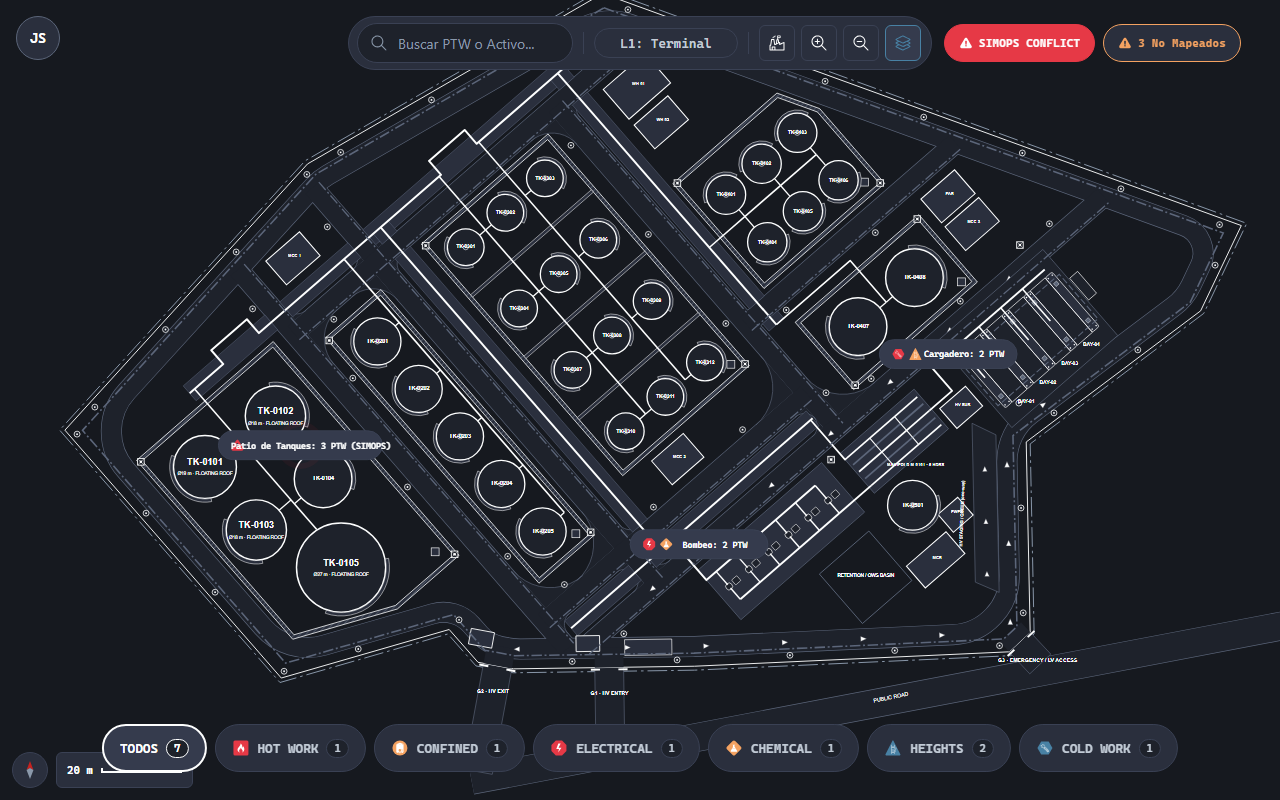
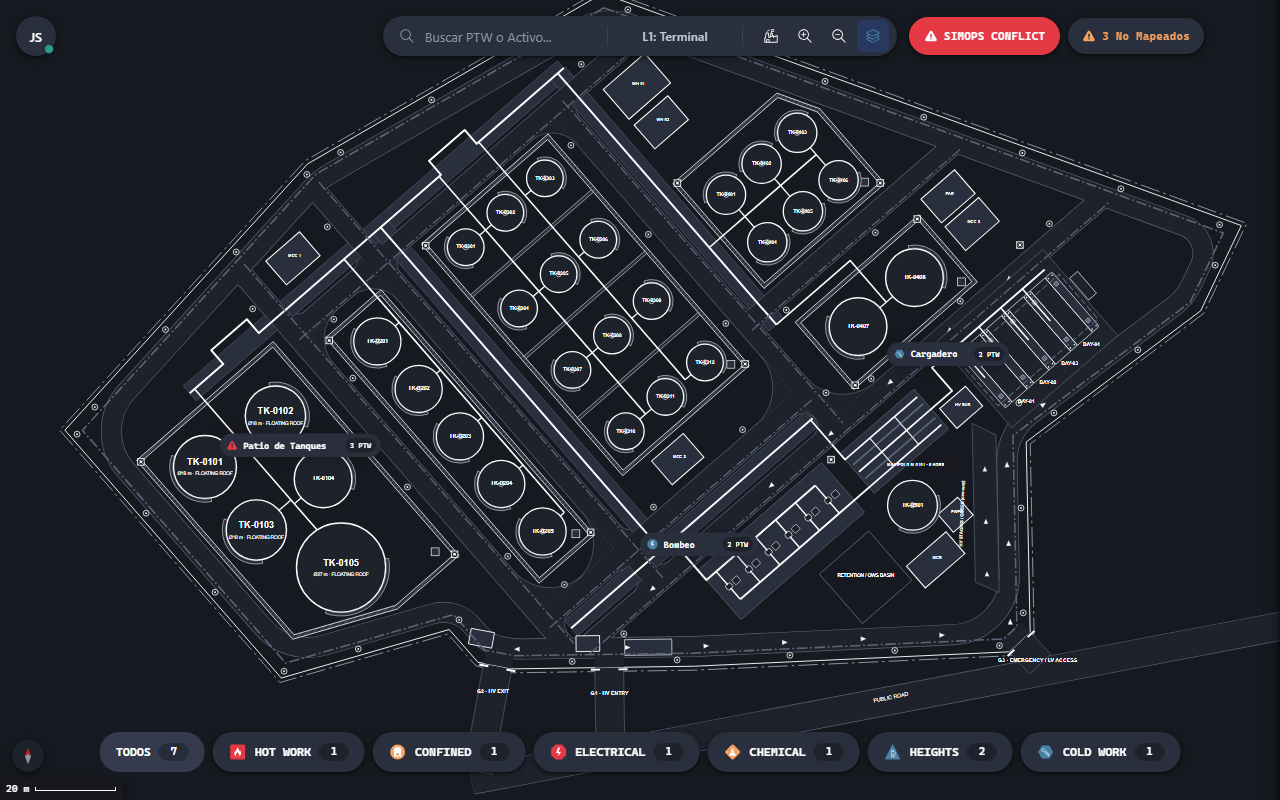
docs(ui-ux): promote SCR-VIS-008 to Stable and synchronize elevation tokens

diff --git a/ui-ux/screens/vis/SCR-VIS-008.md b/ui-ux/screens/vis/SCR-VIS-008.md
@@ -12,8 +12,8 @@ user_stories:
   - "[[VIS-008]]"
 use_cases:
   - "[[UC-VIS-008]]"
-version: 1.5
-date: 2026-10-19
+version: 2.1
+date: 2026-11-09
 status: Stable
 ---
 
@@ -45,14 +45,14 @@ status: Stable
 | ID | Control / Component | Visual Role / Content | Semantic Token | Architectural Role & Reference |
 | :------- | :---------------------- | :------------------------------- | :-------------------------------------------------------------------------------------------------- | :----------------------------------------------------------------------------------------------------------------------------------------------------------------------- |
 | `CMP-01` | L1 Plot Plan Canvas | Macro plant SVG vector canvas | Surface: `--dt-color-bg-canvas`<br>Elevation: `--dt-z-canvas` | Renders macro polygons representing Functional Locations (ISO 14224 Levels 1 to 4) and Level 6 equipment nodes. Implements semantic zoom clustering. Detailed panning and zoom rules in §5.4. |
-| `CMP-02` | Viewport Toolbar | Spatial navigation toolbar | Surface: `--dt-color-surface-raised`<br>Border: `--dt-color-border-subtle`<br>Radius: `--dt-radius-full` | Floating navigation toolbar centered over viewable canvas. Hosts level badge (`L1: PLOT PLAN`), reset view (1:1), zoom (+ / −), layer selector (`[≡ Layers]`), and non-modal alert badges for SIMOPS conflicts and unmapped permits. Adaptive condensation in §5.2. Shared with [SCR-VIS-033](./SCR-VIS-033.md). |
-| `CMP-03` | User Profile Indicator | Active user session control | Surface: `--dt-color-surface-raised`<br>Border: `--dt-color-border-panel`<br>Radius: `--dt-radius-full` | Circular floating button anchored at top-left margin per layout grid. Displays user initials. Enforces `--dt-touch-target-mobile`. Aligned with `CMP-11` in [SCR-VIS-033](./SCR-VIS-033.md). |
+| `CMP-02` | Viewport Toolbar | Spatial navigation toolbar | Surface: `--dt-color-surface-card`<br>Shadow: `--dt-shadow-hud`<br>Radius: `--dt-radius-full` | Floating navigation toolbar centered over viewable canvas. Elevated via `--dt-shadow-hud` (borderless). Hosts level badge (`L2: Subsistema`), reset view (1:1), zoom (+ / −), layer selector (`[≡ Layers]`), and non-modal alert badges for SIMOPS conflicts (`[⚠ SIMOPS CONFLICT]`) and unmapped permits (`[⚠ 3 No Mapeados]`). Adaptive condensation in §5.2. Shared with [SCR-VIS-033](./SCR-VIS-033.md). |
+| `CMP-03` | User Profile Indicator | Active user session control | Surface: `--dt-color-surface-card`<br>Shadow: `--dt-shadow-hud`<br>Radius: `--dt-radius-full` | Circular floating button anchored at top-left margin per layout grid. Elevated via `--dt-shadow-hud` (borderless). Displays user initials. Enforces `--dt-touch-target-mobile`. Aligned with `CMP-11` in [SCR-VIS-033](./SCR-VIS-033.md). |
 | `CMP-04` | Functional Zone Polygon | Plant zone boundaries in SVG | Border: `--dt-color-border-subtle`<br>Fill: transparent / neutral | Vector boundary representing a Functional Location. Rendered in neutral grayscale to maintain the 90/10 background rule. Hosts `CMP-09` cluster pills at centroids at macro zoom. |
-| `CMP-05` | PTW Overlay Badges | Active permit safety markers | Surface: Dynamic (`--dt-color-alarm-critical` \| `--dt-color-alarm-warning` \| `--dt-color-state-info`)<br>Elevation: `--dt-z-layer-ptw` | Vector safety hotspots dynamically positioned over affected equipment units at area zoom. Applies mandatory 4-channel redundant coding (color, shape, icon, text) and spatial hazard buffers. Specification in §5.1. |
-| `CMP-06` | Context Popover Card | Permit detail contextual card | Surface: `--dt-color-surface-raised`<br>Border: `--dt-color-border-subtle`<br>Elevation: `--dt-z-overlay-card` | Transient card deployed upon tapping a `CMP-05` badge. Displays permit metadata, schedule, contractor, associated LOTO reference, and `[View Details]` drill-down action. Viewport collision rules in §5.4. |
-| `CMP-07` | SIMOPS Integrity Panel | Visualization Failures drawer | Surface: `--dt-color-surface-drawer`<br>Border: `--dt-color-border-panel`<br>Elevation: `--dt-z-drawer-sidebar` | Collapsible drawer (lateral panel in landscape, bottom sheet in portrait) displaying approved permits lacking spatial mapping. Hosts unmapped list and `[Resolve Inconsistency]` button. Governance rules in §5.2. |
-| `CMP-08` | Filter Chips Panel | Risk category filter panel | Surface: `--dt-color-surface-raised`<br>Border: `--dt-color-border-subtle`<br>Radius: `--dt-radius-full` | Floating bar at screen bottom hosting direct-touch filter chips for active permit types. Supports touch swipe and desktop shift-wheel scrolling. Interaction rules in §5.4. |
-| `CMP-09` | Zone Cluster Pill | Macro SIMOPS density aggregation | Surface: `--dt-color-surface-raised`<br>Border: `--dt-color-border-subtle`<br>Radius: `--dt-radius-full` | Rendered at Functional Location centroids at macro zoom. Consolidates tactical permits into high-salience overview pills (e.g., `Zone A: 5 PTWs [🔥1 \| 🧗2 \| 🛢2]`). Tapping zooms into the zone. Semantic zoom rules in §5.4. |
+| `CMP-05` | PTW Overlay Badges | Active permit safety markers | Surface: `--dt-color-surface-card`<br>Shadow: `--dt-shadow-hud`<br>Radius: `--dt-radius-full`<br>Elevation: `--dt-z-layer-ptw` | Floating capsule pills dynamically positioned over affected equipment units at area zoom. Applies mandatory 4-channel redundant coding (color, shape, icon, text) with semantic hazard dot and dynamic spatial hazard buffers. Specification in §5.1. |
+| `CMP-06` | Context Popover Card | Permit detail contextual card | Surface: `--dt-color-surface-raised`<br>Border: `--dt-color-border-subtle`<br>Shadow: `--dt-shadow-panel`<br>Elevation: `--dt-z-overlay-card` | Transient card deployed upon tapping a `CMP-05` badge. Displays permit metadata, schedule, contractor, associated LOTO reference, and `[Ver Detalle de Permiso]` secondary button action aligned with `INV-005` standard. Viewport collision rules in §5.4. |
+| `CMP-07` | SIMOPS Integrity Panel | Visualization Failures drawer | Surface: `--dt-color-surface-drawer`<br>Border: `--dt-color-border-panel`<br>Shadow: `--dt-shadow-panel`<br>Elevation: `--dt-z-drawer-sidebar` | Collapsible drawer (lateral panel in landscape, bottom sheet in portrait) displaying approved permits lacking spatial mapping. Rendered as a flat list separated by hairline dividers with dedicated top-right resolution icon button (`#icon-location`), decoupling the issue description into its own line. Dismissed explicitly via close button or by tapping on the empty canvas. Governance rules in §5.2. |
+| `CMP-08` | Filter Chips Panel | Risk category filter panel | Surface: `--dt-color-surface-card`<br>Shadow: `--dt-shadow-hud`<br>Radius: `--dt-radius-full` | Floating bar at screen bottom hosting discrete touch filter pills for active permit types without borders, displaying hazard-tinted fills upon selection, and count capsules with subtle elevation. Supports touch swipe and desktop shift-wheel scrolling. Interaction rules in §5.4. |
+| `CMP-09` | Zone Cluster Pill | Macro SIMOPS density aggregation | Surface: `--dt-color-surface-card`<br>Shadow: `--dt-shadow-hud`<br>Radius: `--dt-radius-full` | Rendered at Functional Location centroids at macro zoom ($Z < \text{--dt-zoom-scale-l1-max}$). Consolidates tactical permits into high-salience overview pills (e.g., `Zone A: 5 PTWs [🔥1 \| 🧗2 \| 🛢2]`). Mutually exclusive with discrete `CMP-05` badges. Tapping zooms into the zone. Semantic zoom rules in §5.4. |
 
 ---
 
@@ -90,7 +90,8 @@ status: Stable
    * **Collision Trigger:** When $D_{AB} < R_A + R_B$, a SIMOPS conflict is automatically triggered:
       * Overlapping intersection zone renders a high-contrast pulsing diagonal hatch pattern.
       * Both affected `CMP-05` badges display an animated pulsing conflict halo in `--dt-color-alarm-critical`.
-      * `CMP-02` Toolbar activates a dedicated conflict pill: `[⚠ SIMOPS CONFLICT: PTW-XXXX / PTW-YYYY]`. Tapping the pill centers the viewport over the conflict site and opens the conflict detail card.
+      * `CMP-02` Toolbar activates a dedicated conflict pill: `[⚠ SIMOPS CONFLICT]`. Tapping the pill centers the viewport over the conflict site and opens the conflict detail card.
+      * An operational SIMOPS alert banner slides down non-modally at the top viewport edge: *"ALERTA SIMOPS: Incompatibilidad de coactividad entre Trabajo en Caliente (PTW-1042) y Espacio Confinado (PTW-1043) en Patio de Tanques."*
 5. **Mandatory 4-Channel Redundant Coding Matrix (FR-183, TR-011, WCAG 2.1 AA):**
    * To prevent single-channel color dependency and ensure pre-attentive salience, every `CMP-05` badge encodes its permit classification across four sensory channels (Color + Geometric Shape + Vector Icon + Alphanumeric Label) per [DT-UI-DS-DOC-001 §6.2](../../DT-UI-DS-DOC-001.md#62-redundant-coding-matrix-for-permits-and-loto) and [DT-DM-DOC-001 §4.34](../../../domain-models/class/DT-DM-DOC-001.md#434-workpermitpermittype):
      * **HOT_WORK:** `--dt-color-alarm-critical` | Square ($20\times 20\text{px}$) | `#icon-hot-work` | `HOT WORK`
@@ -100,25 +101,28 @@ status: Stable
      * **CHEMICAL:** `--dt-color-alarm-warning` | Rhombus ($20\times 20\text{px}$) | `#icon-chemical` | `CHEMICAL`
      * **COLD_WORK:** `--dt-color-state-info` | Hexagon ($20\times 20\text{px}$) | `#icon-cold-work` | `COLD WORK`
    * Spatial hazard buffers, collision halos, and hatch patterns render with click-through transparency to guarantee continuous pan drag gestures across permit zones.
-   * Each badge includes an invisible $48\times 48\text{px}$ tactile touch target (`--dt-touch-target-mobile`) for gloved operation and an expiring warning cue ($< 60\text{ min}$).
+   * Badges render as floating capsule pills (`rx="11"`, height $22\text{px}$) with `--dt-color-surface-card` fill, drop shadow (`filter: drop-shadow(...)`), semantic hazard dot ($r=3.5\text{px}$), mono permit tag, and an invisible $48\times 48\text{px}$ tactile touch target (`--dt-touch-target-mobile`) for gloved operation.
 
 ### 5.2. Integrity Panel Governance & Non-Modal Escalation (Orphan Detection — `AF-001`)
 1. If an approved `WorkPermit` references an `EquipmentUnitId` that has no geometric representation or spatial metadata in the loaded layout, the permit is classified as **Orphan**.
 2. **Safety Rule:** The permit is **never** drawn at an arbitrary coordinate on the map to prevent misleading spatial situational awareness.
 3. **Strict Non-Modal Escalation (ISO 9241-110 §5.5 Controllability & ISO 11064-5):**
    * Detecting unmapped permits shall **never** automatically deploy or expand `CMP-07`, preventing viewport hijacking.
-   * The alert counter on `CMP-02` Toolbar transitions to `--dt-color-alarm-critical` with the unread orphan count badge (e.g., `[⚠ 3]`).
+   * The alert counter on `CMP-02` Toolbar displays a borderless warning pill `[⚠ 3 No Mapeados]` with subtle warning fill and `--dt-shadow-hud` elevation.
    * A single-line non-modal toast banner (height `--dt-layout-toast-max-height`, elevation `--dt-z-toast-alert`) slides down at the top viewport edge:
      `"SIMOPS Alert: 3 Permits lack spatial mapping. [View List] [Dismiss]"`
 4. **Explicit Operator Deployment & Tablet Physical Constraints:**
    * Tapping `[View List]` or the toolbar badge expands `CMP-07`.
    * **Tablet Landscape:** `CMP-07` docks as a lateral panel preserving canvas visibility; layout sizing is detailed in Section 8.
-   * **Tablet Portrait:** `CMP-07` renders as a **Bottom Sheet** docked at the viewport bottom; height bounds are detailed in Section 8.
+   * **Tablet Portrait:** `CMP-07` renders as a **Bottom Sheet** docked at the viewport bottom with its capsule drag handle nested directly inside `.drawer-header` to guarantee background tone parity; height bounds are detailed in Section 8.
+   * **Canvas Light-Dismiss:** Tapping or clicking any empty region of the vector canvas (`CMP-01`) immediately dismisses `CMP-07`, enabling effortless one-touch closure without requiring explicit interaction with the close ('X') button.
    * Container toggling operates via **discrete single taps** on dedicated $48 \times 48\text{ px}$ handles (`--dt-touch-target-mobile` per [DT-UI-DS-DOC-001 §6.3](../../DT-UI-DS-DOC-001.md#63-sliding-containers-pattern-bottom-sheets-and-drawers)). Continuous drag gestures are optional and never mandatory.
-5. Each orphan record presents: `Permit Identifier`, `Contractor`, `Expected TagNumber`, and the `[Resolve Inconsistency]` button (`--dt-control-height-lg`, `FR-186`), enabling the inspector to assign geometry or request spatial metadata updates.
+5. **Flat List Ergonomics for Visualization Failures:**
+   * To prevent visual crowding and eliminate nested card borders ("Russian doll" effect) within the $340\text{px}$ panel, orphan items are rendered directly on the drawer background surface as flat rows separated by hairline dividers (`--dt-color-border-subtle`).
+   * Each orphan record presents: `Permit Identifier` with a compact `VIS-033` capsule type badge (`.ptw-type-pill`), expiration timestamp, `Expected TagNumber`, Contractor, a decoupled warning issue description on its own line (`.orphan-issue-line`), and a compact top-right icon button (`#icon-location`, `FR-186`) to trigger spatial reassignment.
 6. **Adaptive Toolbar Badge Condensation (`CMP-02`):**
    * In tablet landscape with `CMP-07` deployed, toolbar `CMP-02` condenses the unmapped orphan badge to an icon-only `[⚠ 3]` format to prevent toolbar crowding.
-   * On desktop workstations, in tablet portrait, and whenever `CMP-07` is closed, the badge displays its full alphanumeric label `[⚠ 3 Unmapped]`. Responsive breakpoint mapping is detailed in Section 8.
+   * On desktop workstations, in tablet portrait, and whenever `CMP-07` is closed, the badge displays its full alphanumeric label `[⚠ 3 No Mapeados]`. Responsive breakpoint mapping is detailed in Section 8.
 
 ### 5.3. Real-Time Synchronization (`TR-010`)
 1. The client subscribes to the SignalR hub for work permit domain events:
@@ -129,8 +133,8 @@ status: Stable
 
 ### 5.4. Dual Navigation, Tactile Controllability, and Semantic Zoom Clustering
 1. **Semantic Zoom Clustering (ANSI/ISA-101.01 §6.3.1 / Hollifield Ch. 8):** The viewport supports continuous pan/zoom governed by the canonical Design System tokens ([DT-UI-DS-DOC-001 §2.5](../../DT-UI-DS-DOC-001.md#25-spatial-navigation-and-semantic-zoom-tokens-ansiisa-10101-viewports)):
-   * **Scale $Z < \text{--dt-zoom-scale-l1-max}$ (Level 1 Plant Overview / COP):** Discrete equipment badges are **suppressed**. Functional Locations render consolidated **Zone Cluster Pills** (`CMP-09`) at centroids (e.g., `Zone A: 5 PTWs [🔥1 \| 🧗2 \| 🛢2]`), preserving the 90/10 grayscale rule and preventing visual clutter (`NFR-190`).
-   * **Scale $\text{--dt-zoom-scale-l1-max} \le Z < \text{--dt-zoom-scale-l2-max}$ (Level 2 Process Area Layout):** Cluster pills expand into individual **Discrete Equipment Badges** (`CMP-05`) positioned over ISO 14224 Level 6 Equipment Units with dynamic spatial hazard buffers.
+   * **Scale $Z < \text{--dt-zoom-scale-l1-max}$ (Level 1 Plant Overview / COP):** Discrete equipment badges are **completely suppressed**. Functional Locations render consolidated **Zone Cluster Pills** (`CMP-09`) at centroids (e.g., `Zone A: 5 PTWs [🔥1 \| 🧗2 \| 🛢2]`), preserving the 90/10 grayscale rule and preventing visual clutter (`NFR-190`).
+   * **Scale $\text{--dt-zoom-scale-l1-max} \le Z < \text{--dt-zoom-scale-l2-max}$ (Level 2 Process Area Layout):** Cluster pills are suppressed and expand into individual **Discrete Equipment Badges** (`CMP-05`) positioned over ISO 14224 Level 6 Equipment Units with dynamic spatial hazard buffers.
    * **Scale $Z \ge \text{--dt-zoom-scale-l2-max}$ (Level 3 Equipment Detail Faceplate):** Micro tactical detail disclosing nozzles, valves, local instrument numbers, and active LOTO lock numbers.
 2. **Dual-Mode Canvas Pan Ergonomics:**
    * **Desktop Workstations:** Continuous canvas panning strictly requires **middle-click (mouse wheel drag)** with pointer capture. Primary left-click is exclusively reserved for selecting equipment, toggling toolbar controls, and inspecting safety badges.
@@ -138,14 +142,17 @@ status: Stable
 3. **Transient Popover Card Dismissal and Viewport Clamping (`CMP-06`):**
    * **Adaptive Viewport Clamping & Collision Flipping:** Dynamically calculates bounding box and flips leftward when colliding with the right viewport margin ($X + W > \text{Viewport}_W - \text{--dt-space-4}$); clamps vertically within safe boundaries ($[\text{--dt-layout-popover-top-clearance}, \text{Viewport}_H - H - \text{--dt-space-4}]$) respecting top toolbar clearance.
    * **Transient Light-Dismiss:** Moving the canvas via pan drag or adjusting zoom immediately dismisses `CMP-06` to maintain unobstructed visual scanning. Ending a pan gesture immediately unblocks input handling so subsequent stationary clicks or taps on equipment badges deploy `CMP-06` without gesture-lock.
+   * **Secondary Action Button Styling:** Features a secondary drill-down button aligned with the `INV-005` standard (`var(--dt-font-family-base)`, $13\text{px}$, font-weight 500, `border: none` in light mode, subtle hairline in dark mode, without trailing chevron) labeled `"Ver Detalle de Permiso"` to initiate Level 3 inspection.
 4. **Horizontal Filter Chips Ergonomics (`CMP-08`):**
+   * Floating bar at screen bottom hosting discrete floating pills with `--dt-shadow-hud` elevation and borderless styling (`border: none`).
+   * Applies hazard-specific tinted fills upon selection (`HOT_WORK`, `CONFINED_SPACE`, etc.) and `--dt-color-surface-raised` for `TODOS`, with widened count capsules.
    * Supports direct touch swipe on field tablets.
    * Supports horizontal scrolling on desktop via mouse wheel combined with the `Shift` key (`Shift + Wheel`).
 5. **Tactile Ergonomics:** On touch devices (`Industrial Tablet`), all interactive triggers (`CMP-02`, `CMP-03`, `CMP-07`, `CMP-08`, `CMP-09`) maintain a minimum contact area of $48 \times 48\text{ px}$ (`--dt-touch-target-mobile`).
 6. **Hover vs. Tap Bifurcation:** Desktop pointers display a compact hover tooltip (`FR-189`). Touch devices deploy the persistent `CMP-06` card upon direct tap (`FR-184`), dismissible via tap-away, pan/zoom motion, or close ('X') button.
 
 ### 5.5. Hierarchical Escalation (L1 $\to$ L3 Transition)
-1. Clicking on `'View Details'` within `CMP-06` initiates an operational drill-down, transitioning the inspector directly into the Level 3 Equipment Task Faceplate ([SCR-VIS-033](./SCR-VIS-033.md)) for the target equipment unit.
+1. Clicking on `'Ver Detalle de Permiso'` within `CMP-06` initiates an operational drill-down, transitioning the inspector directly into the Level 3 Equipment Task Faceplate ([SCR-VIS-033](./SCR-VIS-033.md)) for the target equipment unit.
 2. Direct selection of an Equipment Unit on the canvas (outside a PTW badge) seamlessly deploys the [SCR-VIS-033](./SCR-VIS-033.md) contextual drawer without changing screens.
 
 ---
@@ -403,9 +410,9 @@ public record PlantZoneDto
 
 | Viewport / Breakpoint | Layout Organization | Ergonomic Rules |
 | :--- | :--- | :--- |
-| **Desktop Workstation**<br>($\ge 1920\text{px}$, `--dt-breakpoint-xl`) | Canvas `CMP-01` occupies full viewport. Floating pill toolbar `CMP-02` displays level badge and full alphanumeric orphan badge (`[⚠ 3 Unmapped]`). Filter chips panel `CMP-08` displays uncompressed risk chips (`HOT_WORK`, `CONFINED_SPACE`, etc.) along the bottom viewport edge. Non-modal integrity drawer `CMP-07` docks as lateral right panel (sized by `--dt-layout-drawer-width-desktop`). | Mouse wheel focal zoom; middle-click canvas pan; cursor tooltips enabled on hover; popover cards `CMP-06` clamp within viewport bounds. |
-| **Industrial Tablet Landscape**<br>($1280\text{px} - 1919\text{px}$, `--dt-breakpoint-lg` / $1280\times 800\text{px}$) | Canvas `CMP-01` full screen. Toolbar `CMP-02` applies adaptive badge condensation when `CMP-07` is deployed (`[⚠ 3]`). Filter chips panel `CMP-08` enables horizontal touch swipe. Integrity drawer `CMP-07` slides over right flank (sized by `--dt-layout-drawer-width-tablet`, strictly preserving $\ge 75\%$ canvas visibility). | Touch pan threshold ($4\text{px}$); touch targets comply with $\ge 48\times 48\text{px}$ (`--dt-touch-target-mobile`); hover tooltips disabled, direct tap opens popover card. |
-| **Industrial Tablet Portrait**<br>($768\text{px} - 1279\text{px}$, `--dt-breakpoint-md` / $800\times 1280\text{px}$) | Canvas `CMP-01` full screen. Toolbar `CMP-02` wraps to compact icon-only controls. Integrity drawer `CMP-07` operates as a bottom sheet with tactile drag handle (natural initial height: `--dt-layout-bottom-sheet-height-initial`). | Single-finger drag pan; pinch-to-zoom; bottom-sheet snap mechanics; floating HUD elements dock to lower corners. |
+| **Desktop Workstation**<br>($\ge 1920\text{px}$, `--dt-breakpoint-xl`) | Canvas `CMP-01` occupies full viewport. Floating pill toolbar `CMP-02` displays level badge (`L2: Subsistema`) and full alphanumeric orphan badge (`[⚠ 3 No Mapeados]`). Filter chips panel `CMP-08` displays uncompressed risk chips (`HOT_WORK`, `CONFINED_SPACE`, etc.) along the bottom viewport edge. Non-modal integrity drawer `CMP-07` docks as lateral right panel (sized by `--dt-layout-drawer-width-desktop`). | Mouse wheel focal zoom; middle-click canvas pan; cursor tooltips enabled on hover; popover cards `CMP-06` clamp within viewport bounds; tapping empty canvas dismisses `CMP-07`. |
+| **Industrial Tablet Landscape**<br>($1280\text{px} - 1919\text{px}$, `--dt-breakpoint-lg` / $1280\times 800\text{px}$) | Canvas `CMP-01` full screen. Toolbar `CMP-02` applies adaptive badge condensation when `CMP-07` is deployed (`[⚠ 3]`). Filter chips panel `CMP-08` enables horizontal touch swipe. Integrity drawer `CMP-07` slides over right flank (sized by `--dt-layout-drawer-width-tablet`, strictly preserving $\ge 75\%$ canvas visibility). | Touch pan threshold ($4\text{px}$); touch targets comply with $\ge 48\times 48\text{px}$ (`--dt-touch-target-mobile`); hover tooltips disabled, direct tap opens popover card; tapping empty canvas dismisses `CMP-07`. |
+| **Industrial Tablet Portrait**<br>($768\text{px} - 1279\text{px}$, `--dt-breakpoint-md` / $800\times 1280\text{px}$) | Canvas `CMP-01` full screen. Toolbar `CMP-02` wraps to compact icon-only controls. Integrity drawer `CMP-07` operates as a bottom sheet with tactile drag handle nested inside `.drawer-header` (natural initial height: `--dt-layout-bottom-sheet-height-initial`). | Single-finger drag pan; pinch-to-zoom; bottom-sheet snap mechanics; floating HUD elements dock to lower corners; tapping empty canvas dismisses `CMP-07`. |
 
 ---
 

diff --git a/TODO.md b/TODO.md
@@ -17,7 +17,7 @@ All documentation and specifications referenced here reside in `adso-dteam-docs/
 - [x] **SCR-VIS-008: Level 1 General Plant Map with SIMOPS Layer**
   - [x] Redundant coding for PTW pins (Color + Geometry + Icon + Label per ANSI/ISA-101).
   - [x] Contextual popovers with viewport boundary clamping.
-  - [x] Canonical specification finalized: [`SCR-VIS-008.md`](ui-ux/screens/vis/SCR-VIS-008.md) (Stable).
+  - [x] Modernize floating HUD elevation (`--dt-shadow-hud`), borderless discrete risk filters, and flat unmapped permits list: [`SCR-VIS-008.md`](ui-ux/screens/vis/SCR-VIS-008.md) (v2.1 Stable).
 
 - [x] **SCR-VIS-011: LOTO Isolation Boundary Matrix**
   - [x] Cognitive Task Analysis (CTA): Physical Try-Out attestation primacy and negative interlock logic.
